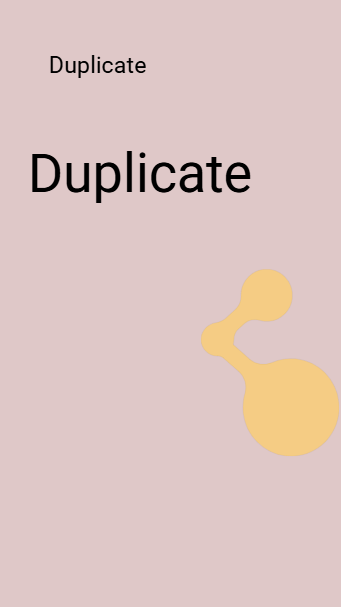
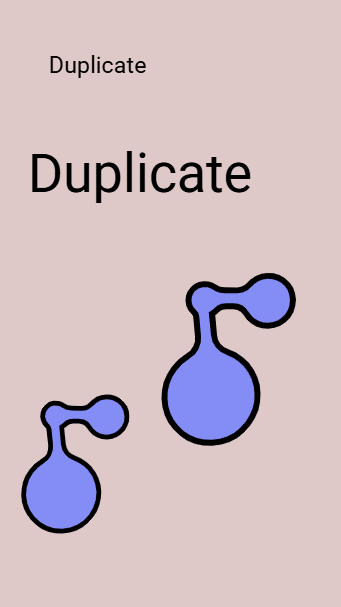
SVG done

Changed region(s): [[0.4692, 0.4448, 0.9971, 0.771], [0.0587, 0.6524, 0.3812, 0.8896], [0.2639, 0.089, 0.2933, 0.1186]]

diff --git a/AnimationProject/wwwroot/js/animations.js b/AnimationProject/wwwroot/js/animations.js
@@ -18485,3 +18485,190 @@ function flashClass(el, cls, ms = 1100) {
         return arr;
     };
 })();
+
+(function () {
+    // Clipboard for SVG/shape properties
+    window.__svgClipboard = null;
+
+    // Heuristic: is this an SVG "shape" image?
+    function isShapeImage(img) {
+        if (!img) return false;
+        if (img.isBasic || img.isLINESvg) return true;
+        const src = img.img?.basicName || img.basicName || "";
+        return typeof src === "string" && src.toLowerCase().includes(".svg");
+    }
+
+    // Get selected shapes (SVGs) from your current state
+    function getSelectedShapes() {
+        try {
+            return (images || []).filter(i => i?.selected && isShapeImage(i));
+        } catch { return []; }
+    }
+
+    // Shallow pick of the properties we care about
+    function snapshotSvgProps(obj) {
+        return {
+            id: obj.id,
+            fillNoColor: obj.fillNoColor,
+            fillNoColorStatus: !!obj.fillNoColorStatus,
+            strokeNoColor: obj.strokeNoColor,
+            strokeNoColorStatus: !!obj.strokeNoColorStatus,
+            strokeWidth: Number(obj.strokeWidth ?? 1),
+            opacity: isFinite(obj.opacity) ? Number(obj.opacity) : 1,
+            rotation: Number(obj.rotation || 0),
+            curvature: obj.curvature
+        };
+    }
+
+    // Apply properties from clipboard to target shape
+    function applySvgProps(target, clip) {
+        if (!target || !clip) return;
+        target.fillNoColor = clip.fillNoColor;
+        target.fillNoColorStatus = !!clip.fillNoColorStatus;
+        target.strokeNoColor = clip.strokeNoColor;
+        target.strokeNoColorStatus = !!clip.strokeNoColorStatus;
+        target.strokeWidth = Number(clip.strokeWidth ?? 1);
+        target.opacity = isFinite(clip.opacity) ? Number(clip.opacity) : 1;
+        target.rotation = Number(clip.rotation || 0);
+        if (typeof clip.curvature !== "undefined") target.curvature = clip.curvature;
+    }
+
+    // COPY: take from activeImage if shape; otherwise first selected shape
+    window.copySvgProps = function () {
+        const type = getSelectedType?.();
+        let source = null;
+
+        if (type === "Shape" && isShapeImage(activeImage)) {
+            source = activeImage;
+        } else {
+            const sel = getSelectedShapes();
+            source = sel[0] || null;
+        }
+
+        if (!source) {
+            console.warn("Copy SVG Property: select a shape (SVG) first.");
+            return;
+        }
+
+        __svgClipboard = snapshotSvgProps(source);
+        // optional type breadcrumb like your text flow uses:
+        try { window.NS = window.NS || {}; NS.__lastPropertyTypeSVG = 'shape'; } catch { }
+        try { document.dispatchEvent(new CustomEvent('svg:copied', { detail: { id: source.id } })); } catch { }
+
+        // enable paste button now
+        const pb = document.getElementById('pasteSvgBtn');
+        if (pb) pb.disabled = false;
+    };
+
+    // PASTE: apply to all currently selected shapes (or to activeImage if it’s a shape)
+    window.pasteSvgProps = function () {
+        if (!__svgClipboard) {
+            console.warn("Paste SVG Property: copy from a shape first.");
+            return;
+        }
+
+        let targets = getSelectedShapes();
+        // If nothing is multi-selected but activeImage is a shape, paste to it
+        if (!targets.length && isShapeImage(activeImage)) targets = [activeImage];
+
+        if (!targets.length) {
+            console.warn("Paste SVG Property: select a shape (SVG) to paste.");
+            return;
+        }
+
+        // History (optional)
+        let before = null;
+        if (window.History && History.enabled) {
+            before = targets.map(t => ({
+                id: t.id,
+                props: snapshotSvgProps(t)
+            }));
+        }
+
+        // Apply
+        targets.forEach(t => applySvgProps(t, __svgClipboard));
+
+        // ★ ADD: Repaint each pasted target so visual matches the new properties
+        targets.forEach(t => {
+            const effFill = t.fillNoColorStatus ? 'none' : (t.fillNoColor ?? '#FFFFFF');   // ★ ADD
+            const effStroke = t.strokeNoColorStatus ? 'none' : (t.strokeNoColor ?? '#000000');   // ★ ADD
+            const effWidth = Number.isFinite(t.strokeWidth) ? t.strokeWidth : 1;                // ★ ADD
+            try {                                                                                 // ★ ADD
+                updateSelectedImageColors(t, effFill, effStroke, effWidth);                       // ★ ADD
+            } catch (e) {                                                                         // ★ ADD
+                console.warn('Paste SVG Property: repaint failed for', t?.id, e);                 // ★ ADD
+            }                                                                                     // ★ ADD
+
+            // ★ ADD (optional): keep hidden fields in sync for the active image
+            if (t === activeImage) {
+                try {
+                    if (typeof $ !== 'undefined') {
+                        if ($('#hdnfillColor').length) $('#hdnfillColor').val(t.fillNoColor ?? '#FFFFFF');
+                        if ($('#hdnfillNoColorStatus').length) $('#hdnfillNoColorStatus').val(!!t.fillNoColorStatus);
+                        if ($('#hdnStrockColor').length) $('#hdnStrockColor').val(t.strokeNoColor ?? '#000000');
+                        if ($('#hdnstrokeNoColorStatus').length) $('#hdnstrokeNoColorStatus').val(!!t.strokeNoColorStatus);
+                        if ($('#ddlStrokeWidth').length) $('#ddlStrokeWidth').val(String(effWidth));
+                        if ($('#hdnFillStrockColorFlag').length) $('#hdnFillStrockColorFlag').val('2');
+                    }
+                } catch { }
+            }
+        });
+        // ★ END ADD
+
+        // History (after)
+        if (window.History && History.enabled) {
+            const after = targets.map(t => ({
+                id: t.id,
+                props: snapshotSvgProps(t)
+            }));
+            History.push({
+                type: 'paste-svg-property',
+                items: targets.map(t => t.id),
+                before,
+                after
+            });
+        }
+
+        // Redraw + resync side panels
+        drawText?.();
+        try { applyImagePaintToUI?.(activeImage); } catch { }
+    };
+
+    // ── Button wiring (delegation; works even if buttons mount later) ───────────
+    document.addEventListener('click', function (e) {
+        const copyBtn = e.target.closest('#copySvgBtn');
+        const pasteBtn = e.target.closest('#pasteSvgBtn');
+        if (copyBtn) { e.preventDefault(); window.copySvgProps(); }
+        if (pasteBtn) { e.preventDefault(); window.pasteSvgProps(); }
+    });
+
+    // ── Enable/disable buttons based on selection and clipboard ────────────────
+    function updateSvgButtons() {
+        const copyBtn = document.getElementById('copySvgBtn');
+        const pasteBtn = document.getElementById('pasteSvgBtn');
+
+        const type = getSelectedType?.();
+        const canCopy = (type === "Shape" && isShapeImage(activeImage)) || getSelectedShapes().length > 0;
+        const canPaste = !!__svgClipboard && getSelectedShapes().length > 0;
+
+        if (copyBtn) copyBtn.disabled = !canCopy;
+        if (pasteBtn) pasteBtn.disabled = !canPaste;
+    }
+
+    const scheduleUpdateSvgButtons = (() => {
+        let raf = 0;
+        return () => {
+            if (raf) cancelAnimationFrame(raf);
+            raf = requestAnimationFrame(() => { raf = 0; updateSvgButtons(); });
+        };
+    })();
+
+    // Refresh button state on typical UX events
+    document.addEventListener('click', scheduleUpdateSvgButtons, true);
+    document.addEventListener('selection:changed', scheduleUpdateSvgButtons);
+    document.addEventListener('svg:copied', scheduleUpdateSvgButtons);
+    document.addEventListener('box:selected', scheduleUpdateSvgButtons);
+
+    // Initial pass
+    scheduleUpdateSvgButtons();
+})();

diff --git a/AnimationProject/wwwroot/js/animationsHorizontal.js b/AnimationProject/wwwroot/js/animationsHorizontal.js
@@ -18053,3 +18053,191 @@ function flashClass(el, cls, ms = 1100) {
     };
 })();
 
+
+(function () {
+    // Clipboard for SVG/shape properties
+    window.__svgClipboard = null;
+
+    // Heuristic: is this an SVG "shape" image?
+    function isShapeImage(img) {
+        if (!img) return false;
+        if (img.isBasic || img.isLINESvg) return true;
+        const src = img.img?.basicName || img.basicName || "";
+        return typeof src === "string" && src.toLowerCase().includes(".svg");
+    }
+
+    // Get selected shapes (SVGs) from your current state
+    function getSelectedShapes() {
+        try {
+            return (images || []).filter(i => i?.selected && isShapeImage(i));
+        } catch { return []; }
+    }
+
+    // Shallow pick of the properties we care about
+    function snapshotSvgProps(obj) {
+        return {
+            id: obj.id,
+            fillNoColor: obj.fillNoColor,
+            fillNoColorStatus: !!obj.fillNoColorStatus,
+            strokeNoColor: obj.strokeNoColor,
+            strokeNoColorStatus: !!obj.strokeNoColorStatus,
+            strokeWidth: Number(obj.strokeWidth ?? 1),
+            opacity: isFinite(obj.opacity) ? Number(obj.opacity) : 1,
+            rotation: Number(obj.rotation || 0),
+            curvature: obj.curvature
+        };
+    }
+
+    // Apply properties from clipboard to target shape
+    function applySvgProps(target, clip) {
+        if (!target || !clip) return;
+        target.fillNoColor = clip.fillNoColor;
+        target.fillNoColorStatus = !!clip.fillNoColorStatus;
+        target.strokeNoColor = clip.strokeNoColor;
+        target.strokeNoColorStatus = !!clip.strokeNoColorStatus;
+        target.strokeWidth = Number(clip.strokeWidth ?? 1);
+        target.opacity = isFinite(clip.opacity) ? Number(clip.opacity) : 1;
+        target.rotation = Number(clip.rotation || 0);
+        if (typeof clip.curvature !== "undefined") target.curvature = clip.curvature;
+    }
+
+    // COPY: take from activeImage if shape; otherwise first selected shape
+    window.copySvgProps = function () {
+        const type = getSelectedType?.();
+        let source = null;
+
+        if (type === "Shape" && isShapeImage(activeImage)) {
+            source = activeImage;
+        } else {
+            const sel = getSelectedShapes();
+            source = sel[0] || null;
+        }
+
+        if (!source) {
+            console.warn("Copy SVG Property: select a shape (SVG) first.");
+            return;
+        }
+
+        __svgClipboard = snapshotSvgProps(source);
+        // optional type breadcrumb like your text flow uses:
+        try { window.NS = window.NS || {}; NS.__lastPropertyTypeSVG = 'shape'; } catch { }
+        try { document.dispatchEvent(new CustomEvent('svg:copied', { detail: { id: source.id } })); } catch { }
+
+        // enable paste button now
+        const pb = document.getElementById('pasteSvgBtn');
+        if (pb) pb.disabled = false;
+    };
+
+    // PASTE: apply to all currently selected shapes (or to activeImage if it’s a shape)
+    window.pasteSvgProps = function () {
+        if (!__svgClipboard) {
+            console.warn("Paste SVG Property: copy from a shape first.");
+            return;
+        }
+
+        let targets = getSelectedShapes();
+        // If nothing is multi-selected but activeImage is a shape, paste to it
+        if (!targets.length && isShapeImage(activeImage)) targets = [activeImage];
+
+        if (!targets.length) {
+            console.warn("Paste SVG Property: select a shape (SVG) to paste.");
+            return;
+        }
+
+        // History (optional)
+        let before = null;
+        if (window.History && History.enabled) {
+            before = targets.map(t => ({
+                id: t.id,
+                props: snapshotSvgProps(t)
+            }));
+        }
+
+        // Apply
+        targets.forEach(t => applySvgProps(t, __svgClipboard));
+
+        // ★ ADD: Repaint each pasted target so visual matches the new properties
+        targets.forEach(t => {
+            const effFill = t.fillNoColorStatus ? 'none' : (t.fillNoColor ?? '#FFFFFF');   // ★ ADD
+            const effStroke = t.strokeNoColorStatus ? 'none' : (t.strokeNoColor ?? '#000000');   // ★ ADD
+            const effWidth = Number.isFinite(t.strokeWidth) ? t.strokeWidth : 1;                // ★ ADD
+            try {                                                                                 // ★ ADD
+                updateSelectedImageColors(t, effFill, effStroke, effWidth);                       // ★ ADD
+            } catch (e) {                                                                         // ★ ADD
+                console.warn('Paste SVG Property: repaint failed for', t?.id, e);                 // ★ ADD
+            }                                                                                     // ★ ADD
+
+            // ★ ADD (optional): keep hidden fields in sync for the active image
+            if (t === activeImage) {
+                try {
+                    if (typeof $ !== 'undefined') {
+                        if ($('#hdnfillColor').length) $('#hdnfillColor').val(t.fillNoColor ?? '#FFFFFF');
+                        if ($('#hdnfillNoColorStatus').length) $('#hdnfillNoColorStatus').val(!!t.fillNoColorStatus);
+                        if ($('#hdnStrockColor').length) $('#hdnStrockColor').val(t.strokeNoColor ?? '#000000');
+                        if ($('#hdnstrokeNoColorStatus').length) $('#hdnstrokeNoColorStatus').val(!!t.strokeNoColorStatus);
+                        if ($('#ddlStrokeWidth').length) $('#ddlStrokeWidth').val(String(effWidth));
+                        if ($('#hdnFillStrockColorFlag').length) $('#hdnFillStrockColorFlag').val('2');
+                    }
+                } catch { }
+            }
+        });
+        // ★ END ADD
+
+        // History (after)
+        if (window.History && History.enabled) {
+            const after = targets.map(t => ({
+                id: t.id,
+                props: snapshotSvgProps(t)
+            }));
+            History.push({
+                type: 'paste-svg-property',
+                items: targets.map(t => t.id),
+                before,
+                after
+            });
+        }
+
+        // Redraw + resync side panels
+        drawText?.();
+        try { applyImagePaintToUI?.(activeImage); } catch { }
+    };
+
+    // ── Button wiring (delegation; works even if buttons mount later) ───────────
+    document.addEventListener('click', function (e) {
+        const copyBtn = e.target.closest('#copySvgBtn');
+        const pasteBtn = e.target.closest('#pasteSvgBtn');
+        if (copyBtn) { e.preventDefault(); window.copySvgProps(); }
+        if (pasteBtn) { e.preventDefault(); window.pasteSvgProps(); }
+    });
+
+    // ── Enable/disable buttons based on selection and clipboard ────────────────
+    function updateSvgButtons() {
+        const copyBtn = document.getElementById('copySvgBtn');
+        const pasteBtn = document.getElementById('pasteSvgBtn');
+
+        const type = getSelectedType?.();
+        const canCopy = (type === "Shape" && isShapeImage(activeImage)) || getSelectedShapes().length > 0;
+        const canPaste = !!__svgClipboard && getSelectedShapes().length > 0;
+
+        if (copyBtn) copyBtn.disabled = !canCopy;
+        if (pasteBtn) pasteBtn.disabled = !canPaste;
+    }
+
+    const scheduleUpdateSvgButtons = (() => {
+        let raf = 0;
+        return () => {
+            if (raf) cancelAnimationFrame(raf);
+            raf = requestAnimationFrame(() => { raf = 0; updateSvgButtons(); });
+        };
+    })();
+
+    // Refresh button state on typical UX events
+    document.addEventListener('click', scheduleUpdateSvgButtons, true);
+    document.addEventListener('selection:changed', scheduleUpdateSvgButtons);
+    document.addEventListener('svg:copied', scheduleUpdateSvgButtons);
+    document.addEventListener('box:selected', scheduleUpdateSvgButtons);
+
+    // Initial pass
+    scheduleUpdateSvgButtons();
+})();
+
